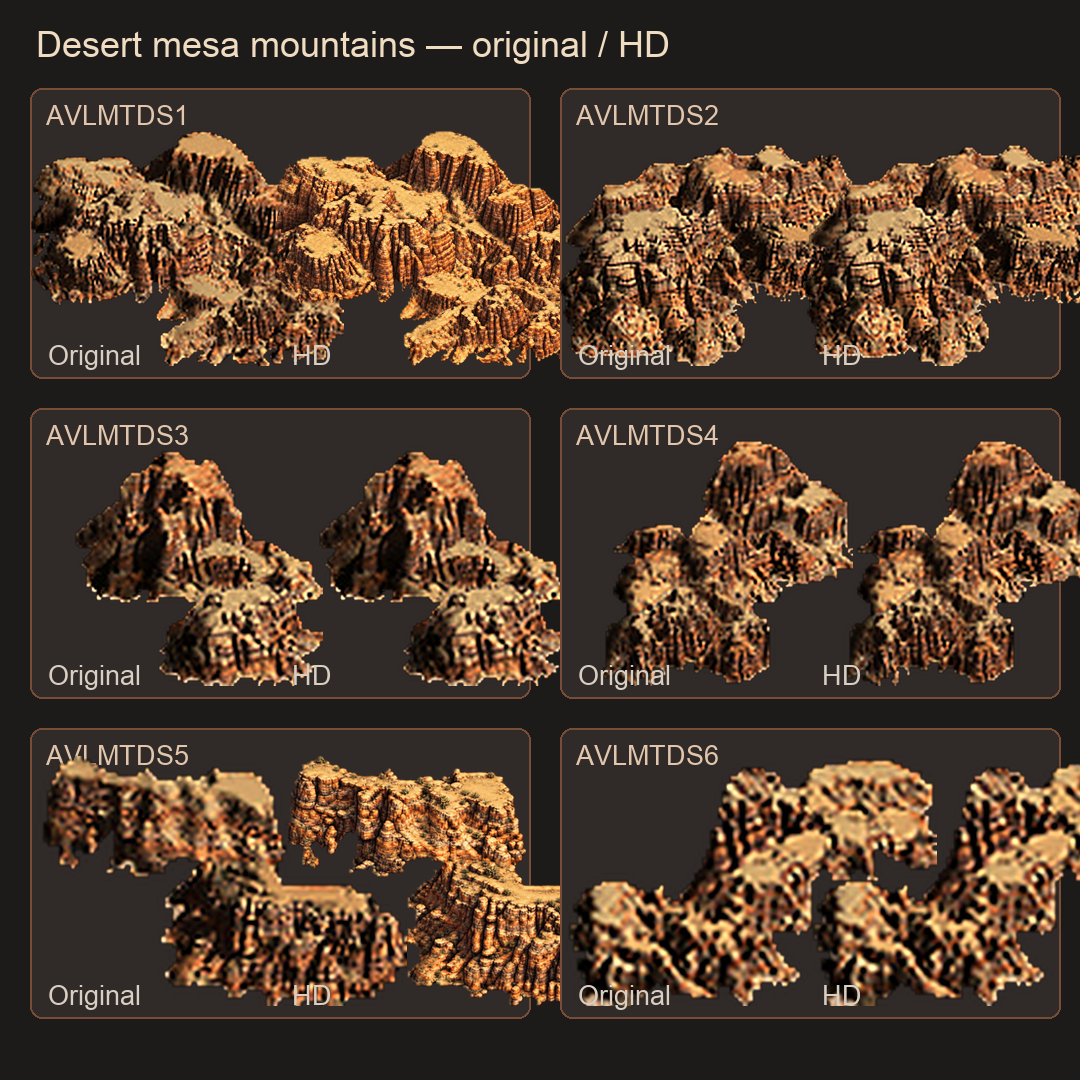
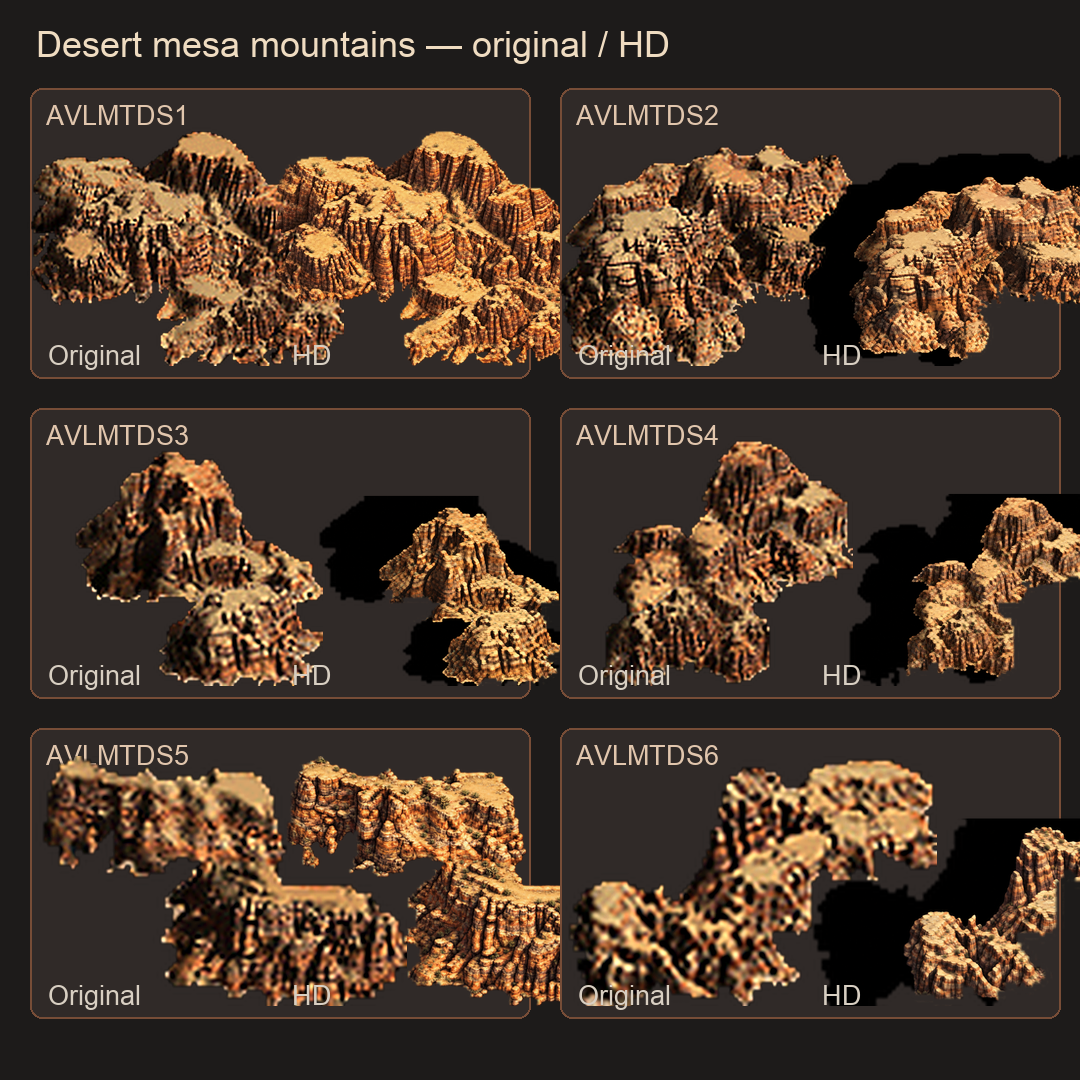
Complete HD desert mesa mountain variants

diff --git a/content/posts/h3-adventure-desert-mesas-hd.md b/content/posts/h3-adventure-desert-mesas-hd.md
@@ -6,8 +6,8 @@ ai: true
 tags: ["vcmi", "ai", "graphics", "astra"]
 ---
 
-The first desert-mesa mountain resources, `AVLMTDS1` and `AVLMTDS5`, now have HD body art. They preserve the source plateau top, canyon, cliff, separate outcrop and gap while adding weathered sandstone, stratification and desert-scrub detail; the other four are being regenerated individually.
+All six desert-mesa mountain resources, `AVLMTDS1`–`AVLMTDS6`, now have HD body art. Each preserves its own source plateau top, canyon, cliff, separate outcrop and gap while adding weathered sandstone, stratification and desert-scrub detail.
 
 ![Desert mesa HD comparison](/images/h3-environment-hd/desert-mesa-mountain-variants-hd-compare.png)
 
-Every body is clipped to the original transparent silhouette, preserving pathing, occlusion and footprint. There are now **206** customized body resources, and the complete adventure-asset check remains at 0 errors.
+Every body is clipped to the original transparent silhouette, preserving pathing, occlusion and footprint. There are now **210** customized body resources, and the complete adventure-asset check remains at 0 errors.

diff --git a/content/posts/h3-adventure-desert-mesas-hd.zh.md b/content/posts/h3-adventure-desert-mesas-hd.zh.md
@@ -6,8 +6,8 @@ ai: true
 tags: ["vcmi", "ai", "graphics", "astra"]
 ---
 
-沙漠台地山体的首批 `AVLMTDS1` 与 `AVLMTDS5` 已完成高清主体图。它们保留原作独有的台地顶面、峡谷、断崖、分离岩块与空隙，只提升风化砂岩、层理和荒漠灌木细节；其余四种正在逐张重新出图。
+六种沙漠台地山体 `AVLMTDS1`–`AVLMTDS6` 已完成高清主体图。每张保留原作独有的台地顶面、峡谷、断崖、分离岩块与空隙，只提升风化砂岩、层理和荒漠灌木细节。
 
 ![沙漠台地高清对照](/images/h3-environment-hd/desert-mesa-mountain-variants-hd-compare.png)
 
-主体沿原始透明轮廓裁切，路径、遮挡和占地不变。定制主体资源现为 **206** 个；完整探险资源校验仍为 0 错误。
+主体沿原始透明轮廓裁切，路径、遮挡和占地不变。定制主体资源增至 **210** 个；完整探险资源校验仍为 0 错误。
